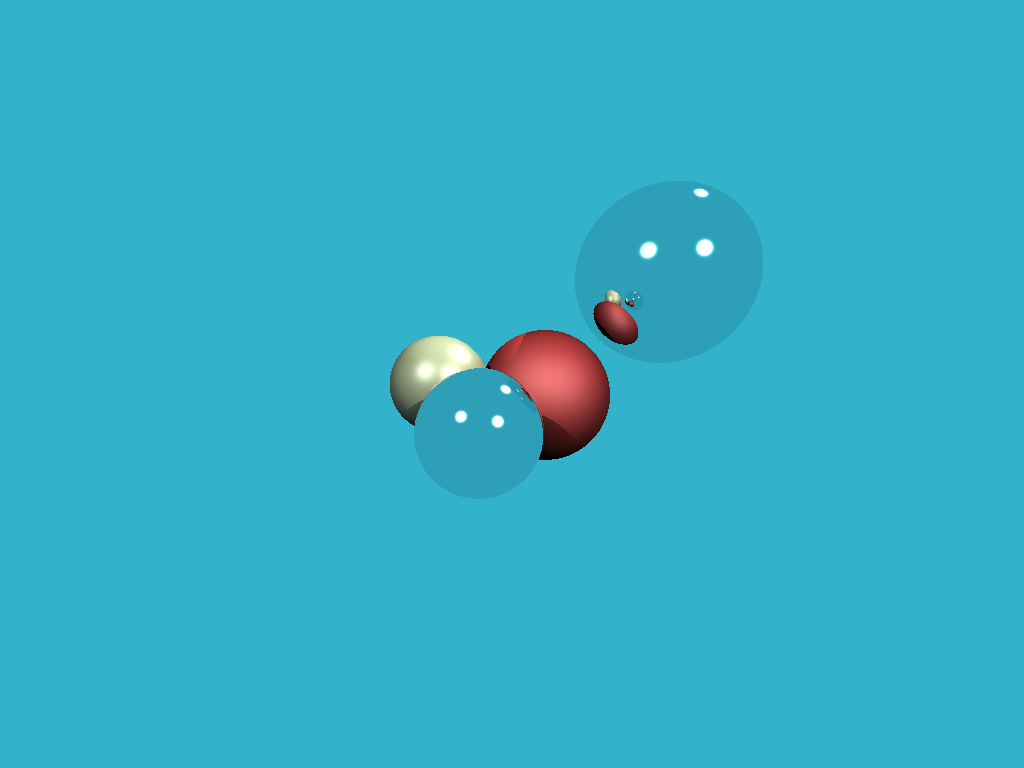
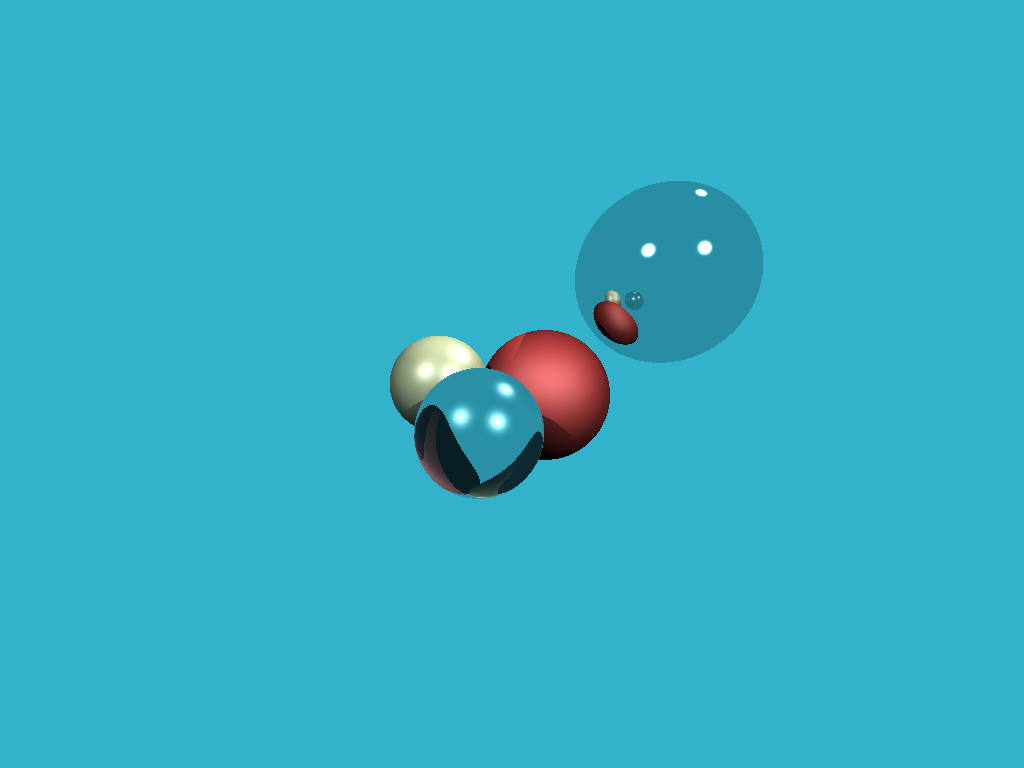
Refraction

Changed region(s): [[0.4062, 0.5, 0.5312, 0.6562], [0.625, 0.3125, 0.7188, 0.3438], [0.5938, 0.375, 0.625, 0.4062]]

diff --git a/src/main.py b/src/main.py
@@ -4,6 +4,37 @@ import math
 import sys
 from Sphere import Sphere, Material, Light
 
+def refract(I: glm.vec3, N: glm.vec3, RI: float) -> glm.vec3:
+    # Ensure input vectors are normalized
+    I = glm.normalize(I)
+    N = glm.normalize(N)
+
+    # Compute the cosine of the angle of incidence
+    cosi = max(-1.0, min(1.0, glm.dot(I, N)))
+    etai = 1.0
+    etat = RI
+    n = N
+
+    # Adjust the normal and indices of refraction based on the incident direction
+    if cosi < 0:
+        cosi = -cosi
+    else:
+        etai, etat = etat, etai
+        n = -N
+
+    eta = etai / etat
+    k = 1.0 - eta * eta * (1.0 - cosi * cosi)
+
+    # Handle total internal reflection
+    if k < 0.0:
+        return glm.vec3(0.0, 0.0, 0.0)  # Total internal reflection, no refraction
+
+    # Compute the refracted direction
+    refracted_dir = eta * I + (eta * cosi - glm.sqrt(k)) * n
+    return glm.normalize(refracted_dir)
+
+
+
 def reflect(I, N):
     # Normalize the input vectors to avoid issues with zero-length vectors
     I = glm.normalize(I)
@@ -52,11 +83,14 @@ def cast_ray(orig, dir, spheres, lights, depth=0):
 
     # Reflection handling
     reflect_dir = glm.normalize(reflect(dir, normal))
-    if glm.dot(reflect_dir, normal) < 0:
-        print("Warning: Reflection direction invalid!")
+    refract_dir = glm.normalize(refract(dir, normal, material.refractive_index))
+    # if glm.dot(reflect_dir, normal) < 0:
+    #     print("Warning: Reflection direction invalid!")
 
     reflect_orig = hit + normal * 1e-3 if glm.dot(reflect_dir, normal) > 0 else hit - normal * 1e-3
+    refract_orig = hit + normal * 1e-3 if glm.dot(refract_dir, normal) > 0 else hit - normal * 1e-3
     reflect_color = cast_ray(reflect_orig, reflect_dir, spheres, lights, depth + 1)
+    refract_color = cast_ray(refract_orig, refract_dir, spheres, lights, depth + 1)
 
     # Lighting calculations
     diffuse_light_intensity = 0.0
@@ -87,7 +121,7 @@ def cast_ray(orig, dir, spheres, lights, depth=0):
     colour = (
         material.diffuse_color * diffuse_light_intensity * material.albedo.x +  # Diffuse
         glm.vec3(1, 1, 1) * specular_light_intensity * material.albedo.y +     # Specular
-        reflect_color * material.albedo.z                                    # Reflection
+        reflect_color * material.albedo.z + refract_color*material.albedo.w    # Reflection
     )
     return glm.clamp(colour, 0.0, 1.0)  # Ensure the colour is within valid range
 
@@ -168,14 +202,15 @@ def render(width=1024, height=768, output_file="output.png"):
     - output_file: File path to save the output image.
     """
 
-    ivory = Material(glm.vec3(0.6, 0.3, 0.1), glm.vec3(0.4, 0.4, 0.3), 50)  # Slightly reflective
-    red_rubber = Material(glm.vec3(0.9, 0.1, 0.0), glm.vec3(0.3, 0.1, 0.1), 10)  # Matte
-    mirror = Material(glm.vec3(0.0, 10.0, 0.9), glm.vec3(1.0, 1.0, 1.0), 1000)  # Highly reflective
+    ivory = Material(1.0, glm.vec4(0.6, 0.3, 0.1, 0.0), glm.vec3(0.4, 0.4, 0.3), 50)  
+    glass = Material(1.5, glm.vec4(0.0, 0.5, 0.1, 0.8), glm.vec3(0.6, 0.7, 0.8), 125)  
+    red_rubber = Material(1.0, glm.vec4(0.9, 0.1, 0.0, 0.0), glm.vec3(0.3, 0.1, 0.1), 10)
+    mirror = Material(1.0, glm.vec4(0.0, 10.0, 0.8, 0.0), glm.vec3(1.0, 1.0, 1.0), 1425) 
 
 
     spheres = [
     Sphere(glm.vec3(-3, 0, -16), 2, ivory),
-    Sphere(glm.vec3(-1.0, -1.5, -12), 2, mirror),
+    Sphere(glm.vec3(-1.0, -1.5, -12), 2, glass),
     Sphere(glm.vec3(1.5, -0.5, -18), 3, red_rubber),
     Sphere(glm.vec3(7, 5, -18), 4, mirror)
 ]

diff --git a/src/Sphere.py b/src/Sphere.py
@@ -6,8 +6,9 @@ class Light:
         self.intensity = intensity
 
 class Material:
-    def __init__(self, albedo: glm.vec3, color: glm.vec3, spec: float):
-        self.albedo: glm.vec3 = albedo
+    def __init__(self, refract: float, albedo: glm.vec4, color: glm.vec3, spec: float):
+        self.refractive_index: float = refract
+        self.albedo: glm.vec4 = albedo
         self.diffuse_color: glm.vec3 = color
         self.specular_exponent: float = spec
 
